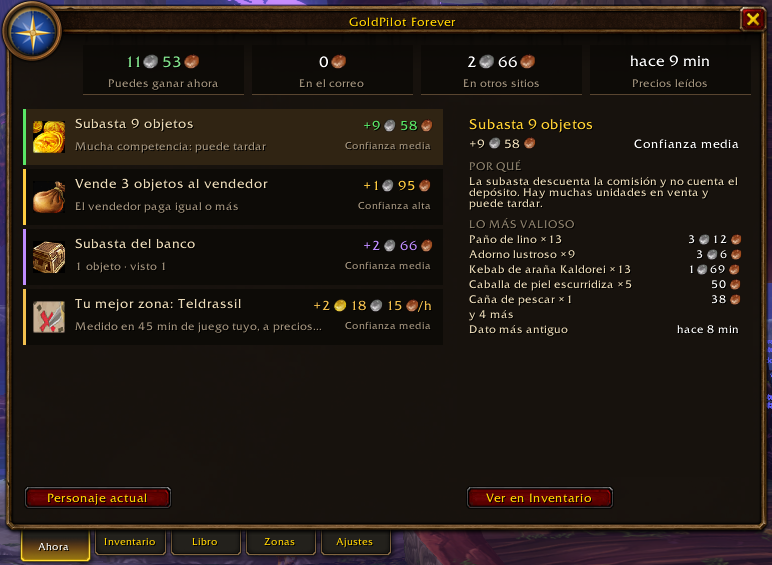
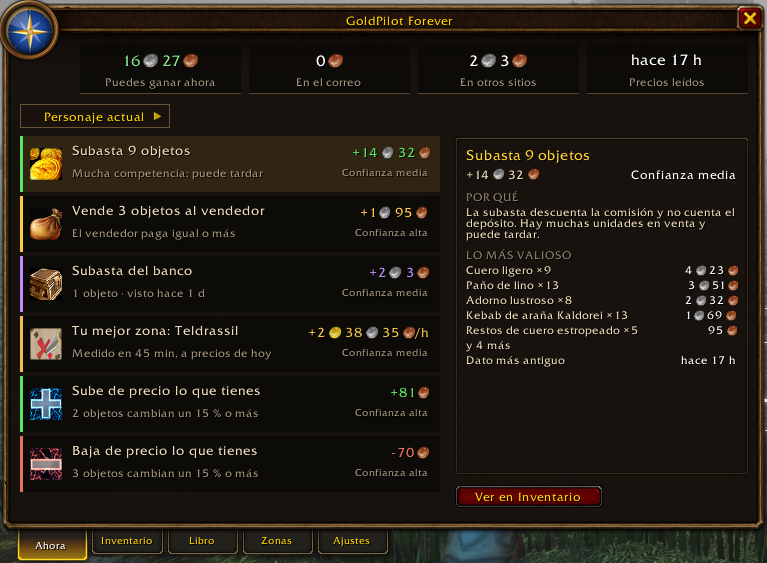
Capturas nuevas de Ahora, Inventario, Zonas y la ruta en el mapa

diff --git a/docs/CURSEFORGE.md b/docs/CURSEFORGE.md
@@ -16,7 +16,7 @@ Guía para rellenar el formulario de creación (no se pega entera: cada bloque v
 | Enlaces | Código fuente: `https://github.com/warcrafted-server/goldpilot` (solo si el repositorio es público); incidencias: `…/issues` (idem) |
 | Donaciones | Ninguna |
 | Dependencias | Ninguna obligatoria; TomTom es opcional (marca la siguiente parada de la ruta) |
-| Capturas | En `docs/img/capturas/`, en este orden: `tooltip.png`, `ahora.png`, `inventario.png`, `libro.png`, `zonas.png`. Recortadas a la ventana y sin nombres de personajes. Falta una de la ruta en el mapa del mundo |
+| Capturas | En `docs/img/capturas/`, en este orden: `tooltip.png`, `ahora.png`, `inventario.png`, `libro.png`, `zonas.png`, `ruta-mapa.png`. Recortadas a la ventana y sin nombres de personajes. `libro.png` y `tooltip.png` son de la 0.15.2 (botones rojos); `zonas.png` y `ruta-mapa.png` se hicieron con las semillas locales de desarrollo, así que muestran más puntos de los que tendrá una instalación nueva |
 
 ## Summary (English, máx. 250 caracteres)
 

diff --git a/CHANGELOG.md b/CHANGELOG.md
@@ -2,17 +2,15 @@
 
 Formato basado en [Keep a Changelog](https://keepachangelog.com/es-ES/1.1.0/) y [SemVer](https://semver.org/lang/es/).
 
-## [Sin publicar]
-
-### Cambiado
-- Capturas para la ficha de CurseForge en `docs/img/capturas/` (tooltip, Ahora, Inventario, Libro y Zonas), recortadas y sin nombres de personajes; sustituyen a `tooltip-objeto.png`.
-
 ## [0.15.6] - 2026-11-25
 
 Parche: el paquete deja de incluir datos de terceros; la ruta funciona igual con los nodos propios.
 
 ### Eliminado
 - `Data/Generated/NodeSeeds.lua` sale del TOC y del repositorio: venía de wowdata con datos de Questie y de una lista de origen sin verificar. El generador lo escribe ahora en `Data/Local/` (ignorada) y solo lo carga el TOC de desarrollo.
+
+### Cambiado
+- Capturas para la ficha de CurseForge en `docs/img/capturas/` (tooltip, Ahora, Inventario, Libro, Zonas y la ruta en el mapa), recortadas y sin nombres de personajes; sustituyen a `tooltip-objeto.png`.
 
 ## [0.15.5] - 2026-11-25
 
